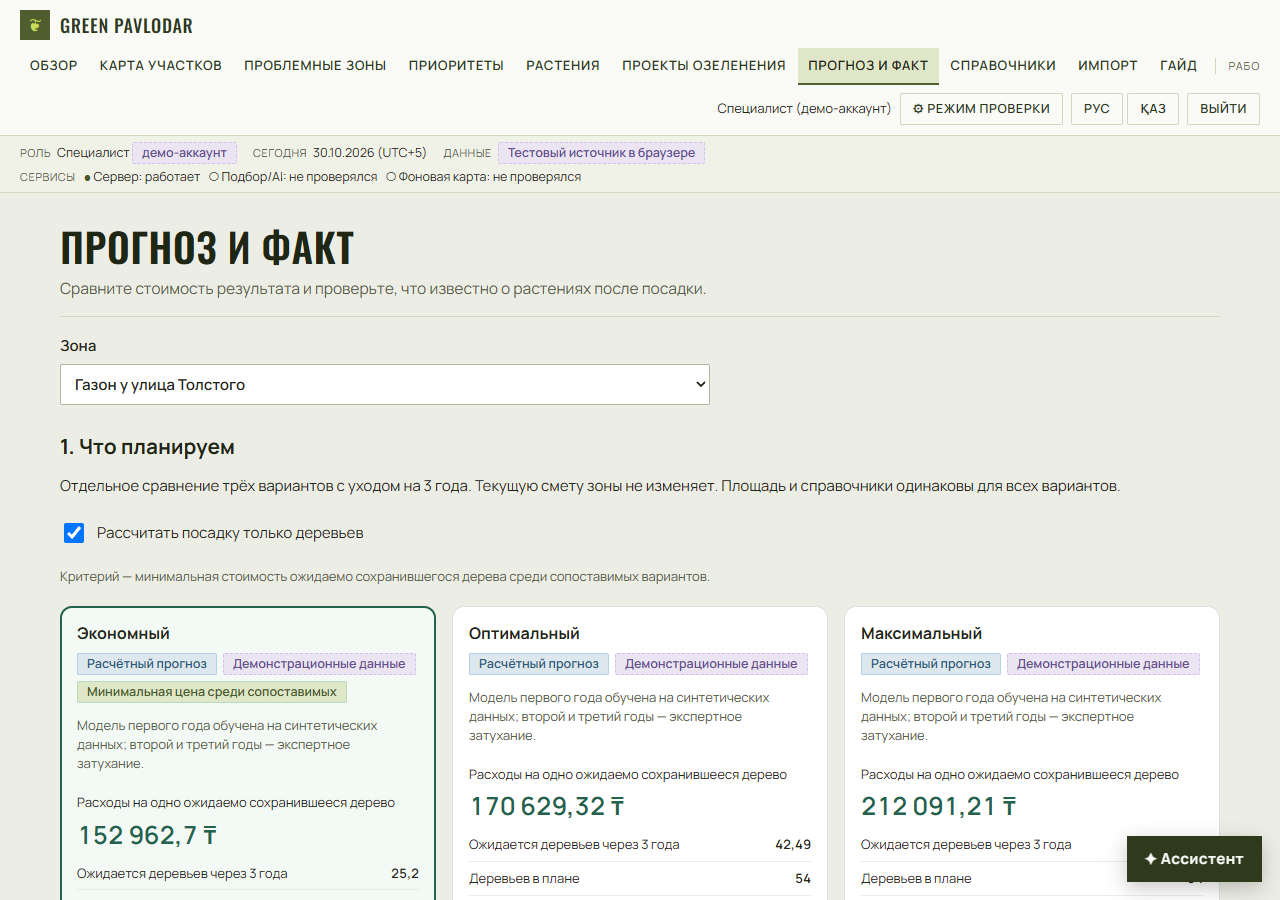
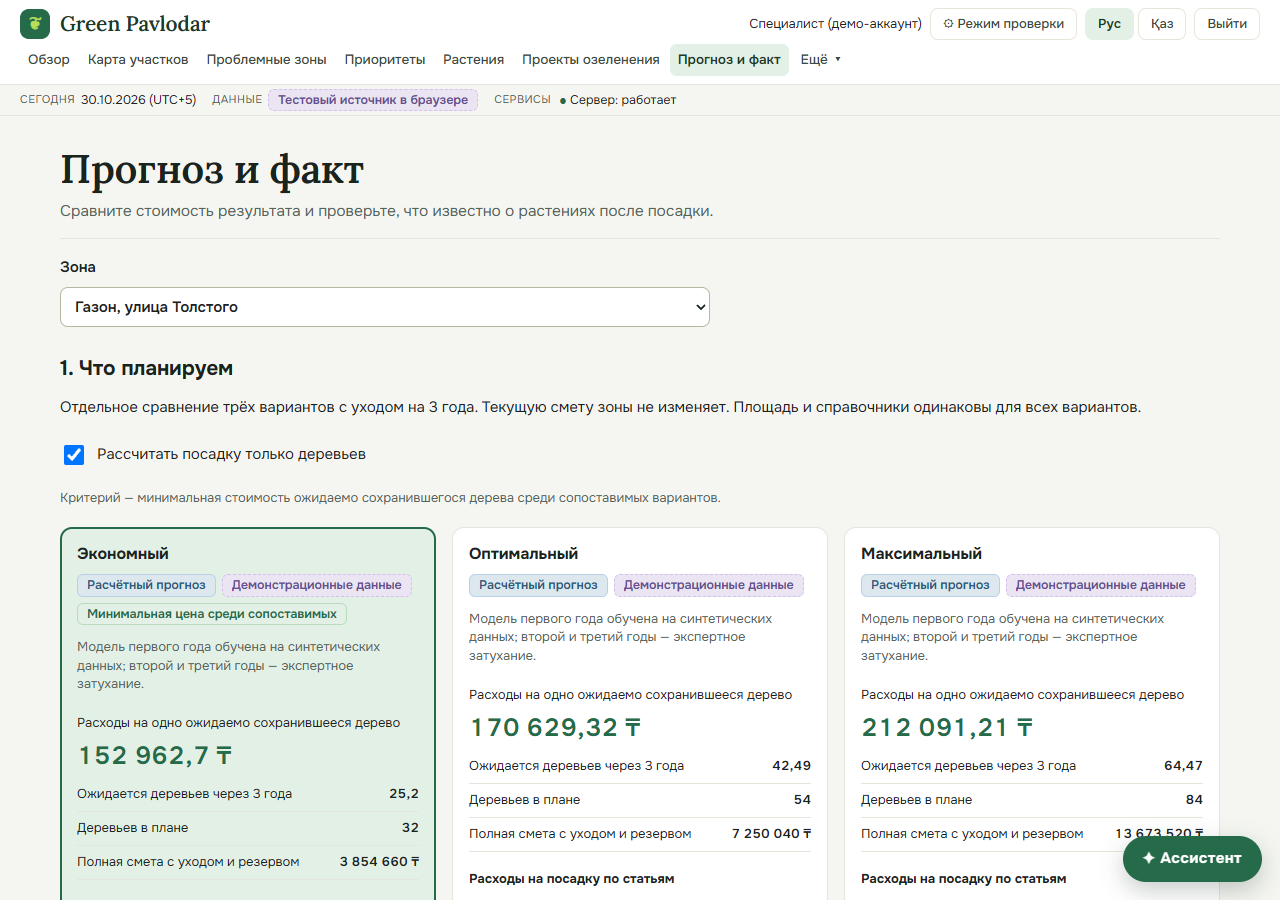
fix(outcomes): align theme and identify manually confirmed observations

diff --git a/apps/web/src/features/coordinator/outcomes/outcomes.css b/apps/web/src/features/coordinator/outcomes/outcomes.css
@@ -1,31 +1,31 @@
-.gp-outcomes { --outcome-accent: #23634d; min-width: 0; margin-top: 24px; padding-top: 20px; border-top: 2px solid #d7e5dd; overflow-wrap: anywhere; }
+.gp-outcomes { --outcome-accent: var(--gp-green); min-width: 0; margin-top: 24px; padding-top: 20px; border-top: 2px solid var(--gp-border); overflow-wrap: anywhere; }
 .gp-outcomes * { box-sizing: border-box; }
 .gp-outcomes__header h3 { margin: 4px 0 8px; font-size: 22px; line-height: 1.25; }
 .gp-outcomes__header p { margin: 8px 0; }
 .gp-outcomes__eyebrow { font-size: 11px; letter-spacing: .1em; text-transform: uppercase; color: var(--outcome-accent); font-weight: 700; }
 .gp-outcomes__grid { display: grid; grid-template-columns: repeat(auto-fit, minmax(min(100%, 230px), 1fr)); gap: 12px; align-items: start; }
-.gp-outcomes__card { min-width: 0; padding: 16px; background: #fff; border: 1px solid #d9e2dc; border-radius: 12px; }
-.gp-outcomes__card--best { border: 2px solid var(--outcome-accent); padding: 15px; background: #f3faf5; }
+.gp-outcomes__card { min-width: 0; padding: 16px; background: var(--gp-surface); border: 1px solid var(--gp-border); border-radius: 12px; }
+.gp-outcomes__card--best { border: 2px solid var(--outcome-accent); padding: 15px; background: var(--gp-green-soft); }
 .gp-outcomes h4 { margin: 0 0 10px; font-size: 16px; }
 .gp-outcomes h5 { font-size: 13px; margin: 18px 0 6px; }
 .gp-outcomes__tags { display: flex; flex-wrap: wrap; gap: 6px; margin-bottom: 8px; }
 .gp-outcomes__tags .gp-badge { white-space: normal; }
 .gp-outcomes__metrics { margin: 12px 0; font-size: 13px; }
-.gp-outcomes__metrics > div { display: flex; align-items: baseline; justify-content: space-between; gap: 12px; padding: 7px 0; border-bottom: 1px solid #e7ece8; }
+.gp-outcomes__metrics > div { display: flex; align-items: baseline; justify-content: space-between; gap: 12px; padding: 7px 0; border-bottom: 1px solid var(--gp-border); }
 .gp-outcomes__metrics dt { flex: 1; min-width: 0; }
 .gp-outcomes__metrics dd { margin: 0; text-align: right; font-weight: 600; font-variant-numeric: tabular-nums; max-width: 55%; }
 .gp-outcomes__metrics .gp-outcomes__main-metric { display: block; border: 0; }
 .gp-outcomes__main-metric dd { margin-top: 8px; text-align: left; max-width: 100%; font-size: 25px; line-height: 1.2; color: var(--outcome-accent); }
-.gp-outcomes__issues { padding-left: 18px; font-size: 13px; line-height: 1.55; color: #73551d; }
+.gp-outcomes__issues { padding-left: 18px; font-size: 13px; line-height: 1.55; color: var(--gp-amber); }
 .gp-outcomes__issues li + li { margin-top: 6px; }
-.gp-outcomes__status { padding: 16px; border-radius: 8px; background: #f2f5f3; line-height: 1.55; }
+.gp-outcomes__status { padding: 16px; border-radius: 8px; background: var(--gp-surface-2); line-height: 1.55; }
 .gp-outcomes__status p { margin-top: 0; }
-.gp-outcomes__history { margin-top: 24px; padding-top: 12px; border-top: 1px solid #d9e2dc; }
+.gp-outcomes__history { margin-top: 24px; padding-top: 12px; border-top: 1px solid var(--gp-border); }
 .gp-outcomes__history > label { display: block; font-size: 13px; margin-bottom: 6px; }
 .gp-outcomes__history > select { width: 100%; max-width: 100%; margin-bottom: 16px; }
-.gp-outcomes__comparison { margin-top: 12px; padding: 16px; background: #eef4f0; border-radius: 8px; font-size: 13px; }
+.gp-outcomes__comparison { margin-top: 12px; padding: 16px; background: var(--gp-green-soft); border-radius: 8px; font-size: 13px; }
 .gp-outcomes__comparison p { margin: 6px 0; }
 .gp-outcomes__reports { padding-left: 18px; }
-.gp-outcomes a { color: #165a45; text-decoration: underline; }
-.gp-outcomes :is(a, button, select):focus-visible { outline: 3px solid #995b09; outline-offset: 3px; }
+.gp-outcomes a { color: var(--gp-green); text-decoration: underline; }
+.gp-outcomes :is(a, button, select):focus-visible { outline: 3px solid var(--gp-focus); outline-offset: 3px; }
 @media (max-width: 480px) { .gp-outcomes__grid { grid-template-columns: minmax(0, 1fr); } .gp-outcomes__card { padding: 12px; } .gp-outcomes__card--best { padding: 11px; } }

diff --git a/apps/web/tests/outcomes-page.test.ts b/apps/web/tests/outcomes-page.test.ts
@@ -161,6 +161,41 @@ test('production adapter uses the published read model; errors never become mock
   await assert.rejects(client.saveForecast('site', { options: {}, siteVersion: 1, ratesVersion: 1 }, 'key'), (e: ApiError) => e.code === 'outcomes_unsupported_plan');
   assert.deepEqual(calls, ['/outcomes/sites/site']);
 });
+
+test('inspection confirmation: only non-demo report-backed API observations receive the RU/KK manual label', () => {
+  const initial = getLang();
+  try {
+    const apiData = fixture();
+    apiData.registry = apiData.registry.map(p => ({ ...p, isDemo: false }));
+    apiData.cohorts = apiData.cohorts.map(c => ({ ...c, provenance: { ...c.provenance, source: 'api', dataClass: 'real', isDemo: false } }));
+    apiData.inspections = apiData.inspections.map(i => ({ ...i,
+      provenance: { ...i.provenance, source: 'api', dataClass: 'real', isDemo: false },
+      observations: i.observations.map(o => ({ ...o, reportId: 'accepted-inspect-report' })),
+    }));
+    const render = (data: typeof apiData, inspectionId: string | null = `${full}-annual`) =>
+      renderToStaticMarkup(createElement(InspectionView, { data, cohortId: full, inspectionId }));
+    for (const lang of ['ru', 'kk'] as const) {
+      setLang(lang);
+      const actual = render(apiData);
+      assert.ok(actual.includes(t('outcomePage.manualConfirmation')));
+      assert.ok(actual.includes(t('outcomePage.manualConfirmationNote')));
+      const counts = (html: string) => [...html.matchAll(/<dd>(.*?)<\/dd>/g)].map(m => m[1]);
+      assert.deepEqual(counts(actual), counts(render(fixture())), 'Explanation must not change counts');
+      assert.ok(!render(fixture()).includes('outcome-manual-confirmation'), 'Synthetic mock is not expert confirmation');
+      assert.ok(!render(apiData, null).includes('outcome-manual-confirmation'));
+      for (const provenance of [
+        { source: 'mock' as const, dataClass: 'real' as const, isDemo: false },
+        { source: 'api' as const, dataClass: 'demo' as const, isDemo: true },
+        { source: 'api' as const, dataClass: 'demo' as const, isDemo: false },
+      ]) {
+        const data = { ...apiData, inspections: apiData.inspections.map(i => ({ ...i, provenance: { ...i.provenance, ...provenance } })) };
+        assert.ok(!render(data).includes('outcome-manual-confirmation'));
+      }
+      const noReports = { ...apiData, inspections: apiData.inspections.map(i => ({ ...i, observations: i.observations.map(o => ({ ...o, reportId: null })) })) };
+      assert.ok(!render(noReports).includes('outcome-manual-confirmation'));
+    }
+  } finally { setLang(initial); }
+});
 test('API snapshot adapter sends stable ID and both versions, never a client-computed forecast', async () => {
   const calls: unknown[] = [];
   const client = createOutcomesClient({ kind: 'api', async request(method, path, options) { calls.push({ method, path, options }); return { data: null } as never; } });

diff --git a/apps/web/src/features/coordinator/outcomes/OutcomeViews.tsx b/apps/web/src/features/coordinator/outcomes/OutcomeViews.tsx
@@ -68,10 +68,16 @@ export function InspectionView({ data, cohortId, inspectionId }: { data: Outcome
   try { selected = selectOutcomeInspection(data, data.siteId, cohortId, inspectionId); }
   catch (error) { return <OutcomeError error={error} />; }
   const { cohort, inspection, summary: s, comparison: c } = selected;
+  const manualConfirmation = inspection?.provenance.source === 'api' && !s.isDemo &&
+    inspection.provenance.dataClass !== 'demo' &&
+    inspection.observations.some(o => o.state !== 'unknown' && o.reportId !== null);
   return <>
     <section className="gp-card gp-outcome-section" aria-labelledby="outcome-observed">
       <h2 id="outcome-observed">{t('outcomePage.observed')}</h2>
       <ProvenanceLine label={t('outcomePage.source.inspection')} value={inspection?.provenance ?? null} />
+      {manualConfirmation && <p className="gp-small" data-testid="outcome-manual-confirmation">
+        <strong>{t('outcomePage.manualConfirmation')}</strong> — {t('outcomePage.manualConfirmationNote')}
+      </p>}
       {inspection && <ul>{[...new Set(inspection.observations.flatMap(o => o.reportId ? [o.reportId] : []))].map((id, i) =>
         <li key={id}><a href={hrefFor('/reports', { report: id })}>{t('outcomes.report', { n: i + 1 })}</a></li>)}</ul>}
       <dl className="gp-outcome-stats gp-outcome-stats--wide">

diff --git a/apps/web/src/shared/i18n/ru.ts b/apps/web/src/shared/i18n/ru.ts
@@ -1699,6 +1699,8 @@ export const ru = {
   "outcomes.issue.anniversary": "Дата осмотра не совпадает с годовщиной прогноза. Сравнение возможно на сроке 1, 2 или 3 года; этот осмотр показывается отдельно.",
   "outcomes.issue.coverage": "Состояние установлено не для всей партии. Для сравнения обследуйте оставшиеся растения.",
   "outcomes.issue.cohort": "Состав партии не совпадает с исходным прогнозом. Проверьте связи с реестром; не переписывайте прошлый прогноз.",
+  "outcomePage.manualConfirmation": "Ручное подтверждение специалиста",
+  "outcomePage.manualConfirmationNote": "Состояния растений указаны специалистом по принятому отчёту осмотра. Автоматическая проверка с помощью AI не выполнялась.",
 } as const;
 
 export type Dict = { [K in keyof typeof ru]: string };

diff --git a/apps/web/src/shared/i18n/kk.ts b/apps/web/src/shared/i18n/kk.ts
@@ -1661,4 +1661,6 @@ export const kk: Partial<Dict> = {
   "outcomes.issue.anniversary": "Тексеру күні болжамның жылдық мерзіміне сәйкес емес. Салыстыру 1, 2 немесе 3 жылдық мерзімде мүмкін; бұл тексеру бөлек көрсетіледі.",
   "outcomes.issue.coverage": "Бүкіл партияның жай-күйі анықталмаған. Салыстыру үшін қалған өсімдіктерді тексеріңіз.",
   "outcomes.issue.cohort": "Партия құрамы бастапқы болжамға сәйкес емес. Тізіліммен байланыстарды тексеріңіз; өткен болжамды қайта жазбаңыз.",
+  "outcomePage.manualConfirmation": "Маманның қолмен растауы",
+  "outcomePage.manualConfirmationNote": "Өсімдіктердің жай-күйін маман қабылданған қарап тексеру есебі бойынша көрсетті. AI арқылы автоматты тексеру жүргізілген жоқ.",
 };

diff --git a/apps/web/src/features/coordinator/outcomes/outcomes-page.css b/apps/web/src/features/coordinator/outcomes/outcomes-page.css
@@ -11,7 +11,7 @@
 .gp-outcome-variants > div { min-width: 0; }
 .gp-outcome-stats { display: grid; gap: 16px; margin-block: 20px; }
 .gp-outcome-stats--wide { grid-template-columns: repeat(auto-fit, minmax(175px, 1fr)); }
-.gp-outcome-stats dt { font-size: .85rem; color: #506158; line-height: 1.45; }
+.gp-outcome-stats dt { font-size: .85rem; color: var(--gp-muted); line-height: 1.45; }
 .gp-outcome-stats dd { font-size: 1.35rem; font-weight: 650; margin: 5px 0 0; font-variant-numeric: tabular-nums; overflow-wrap: anywhere; }
 .gp-outcome-source { display: flex; flex-wrap: wrap; align-items: center; gap: 8px; margin-block: 14px; font-size: .85rem; }
 .gp-outcome-source small { flex-basis: 100%; overflow-wrap: anywhere; }

diff --git a/docs/outcomes-ui.md b/docs/outcomes-ui.md
@@ -159,31 +159,38 @@ node --import tsx scripts/check-outcomes-workflow.mts
 
 Серверные и worker-тесты запускать штатными `npm test`. `tools/e2e` запускается без изменений.
 
-### Результаты 30.10.2026
+### Результаты 30.10.2026 после merge дизайна `b53c180`
 
 | Проверка | Результат |
 | --- | --- |
 | `npx tsc -b`, build | PASS; существующее предупреждение чанков >500 kB |
-| Web `npm test` | 149/149: 80 базовых + 37 core + 9 из #21 + 21 workflow + 2 reader |
-| Все четыре `check:*` | PASS; i18n 1753/1753, пропусков/лишних ключей/ошибок параметров нет |
+| Web `npm test` | 151/151, без ошибок и пропусков |
+| Все четыре `check:*` | PASS; i18n 1775/1775, пропусков/лишних ключей/ошибок параметров нет |
 | Server typecheck/build/tests | PASS; 74/74, `--test-concurrency=2`, без пропусков |
-| Worker `npm test` | 75/75; отдельный PR #20 в эту ветку не включён |
+| Worker `npm test` | 79/79, без ошибок и пропусков |
 | Настоящий экран mock | RU/KK × 1280/375, 4/4: сохранение/reload, осмотры, ошибка/повтор, смена зоны, роль просмотра |
 | Локальный API | RU/KK × 1280/375, 4/4: настоящая история, сохранение в SQLite, совпадение суммы, reload; нет ошибок страницы и переполнения |
-| Стенд компонентов #21 | 4/4 конфигурации, по 16 проверок |
-| Переход из сметы | 1280/375, 2/2: компактный mock подключён, зона сохраняется |
-| E2E основной ветки | 56 passed, 32 существующих skipped, 0 failed; без изменения тестов |
 
 Для API использовалась отдельная временная SQLite и одноразовый пароль только в памяти
 тестового процесса; процесс и база удаляются после проверки. Docker/публичный деплой
-не проверены. Worker, компонентный стенд, переход из сметы и базовый E2E проверялись
-до подключения #23; соответствующий код после него не менялся. E2E — версия из текущего
-coordinator, не ещё не влитый расширенный #16; это не подтверждение исправления E2E-06.
+не проверены. Полный E2E на этой версии не запускался; целевые браузерные проверки
+выше не заменяют финальную приёмку Айданы. Первый холодный API-запуск истёк на загрузке
+страницы; повтор того же скрипта после установки зависимостей прошёл без ослабления проверок.
 Проверка Word в этом изменении — существующие модульные тесты OOXML; настольный Word
 заново не открывался. Лингвистическая вычитка новых переводов остаётся за командой.
 
-Снимки: [RU, компьютер](outcomes-ui/workflow-ru-desktop.png),
+Снимки после merge дизайна: [RU, компьютер](outcomes-ui/workflow-ru-desktop.png),
 [KK, 375 px](outcomes-ui/workflow-kk-mobile.png).
+
+Для недемонстрационного API-осмотра с установленным состоянием и ссылкой на отчёт
+показывается «Ручное подтверждение специалиста» / «Маманның қолмен растауы».
+Подпись поясняет, что автоматической проверки AI не было. Она не появляется для demo,
+mock, отсутствующего осмотра или наблюдений без отчёта. Это проверено на RU/KK;
+числа и формулы из #18 не изменены. Дополнительное казахское пояснение требует вычитки Бекзата.
+
+#23 пока ожидает вливания: после него нужен обычный merge coordinator и полный повтор
+проверок перед Ready. «Прогноз и факт» остаётся в основной строке меню; Shell в этом
+обновлении самостоятельно не изменён.
 
 ## Сценарии для Айданы
 
